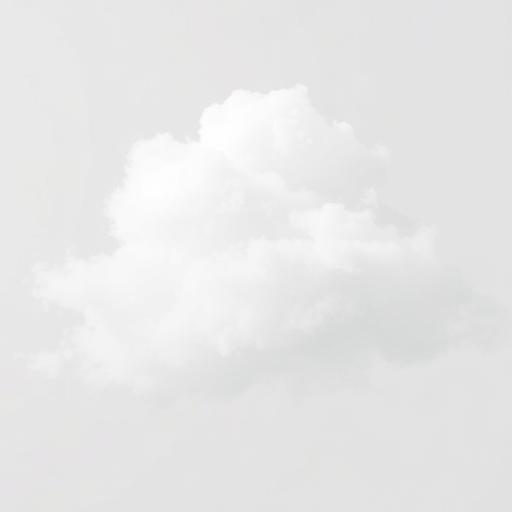
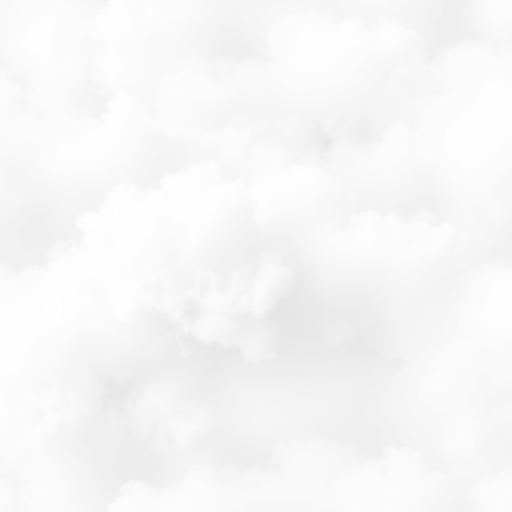
Implement shader-based fog
Replaced white fog circles with a shader-based fog implementation. This includes a single shader plane with animated, procedural noise for a more realistic and performant fog effect. The changes introduce new files for mask texture generation, shader logic, and a React-Three-Fiber hook for integration.

diff --git a/src/systems/fog/FogPlane.ts b/src/systems/fog/FogPlane.ts
@@ -1,0 +1,187 @@
+// src/systems/fog/FogPlane.ts
+import * as THREE from 'three';
+import { buildFogMaskTexture, updateFogMaskTexture } from './FogMaskTexture';
+import { useFogStore } from '@/stores/fogStore';
+
+// Импортируем шейдеры как строки
+const vertexShader = `
+precision highp float;
+attribute vec3 position;
+attribute vec2 uv;
+uniform mat4 modelViewMatrix;
+uniform mat4 projectionMatrix;
+
+varying vec2 vUv;
+
+void main() {
+  vUv = uv;
+  gl_Position = projectionMatrix * modelViewMatrix * vec4(position, 1.0);
+}
+`;
+
+const fragmentShader = `
+precision highp float;
+
+varying vec2 vUv;
+
+uniform sampler2D uCloudTex;   // облачная текстура (RGBA)
+uniform sampler2D uMaskTex;    // R8: 0=туман, 1=открыто (но в буфере 0/1)
+uniform vec2      uMapPx;      // размер маски в пикселях (w,h)
+uniform vec2      uTilePx;     // размер тайла в мировых пикселях по UV (для тайлинга облаков)
+uniform float     uTime;       // время для анимации
+uniform float     uOpacity;    // макс плотность тумана (0..1)
+
+//
+// лёгкий "шум" без текстур: 3-синусовой FBM
+//
+float n2(vec2 p){ return sin(p.x)*sin(p.y); }
+float fbm(vec2 p){
+  float f=0.0, a=0.5;
+  for(int i=0;i<4;i++){
+    f += a * n2(p);
+    p = p*2.13 + vec2(19.7, 7.3);
+    a *= 0.5;
+  }
+  return f*0.5 + 0.5; // 0..1
+}
+
+void main() {
+  // Маска (в texel space): берём несколько сэмплов для "размытия краёв"
+  // и вычисляем edgeFactor — чем ближе к границе, тем сильнее "протекание".
+  vec2 texel = 1.0 / uMapPx;
+  float m00 = texture2D(uMaskTex, vUv).r;         // 0..1 (0=tumor,1=open)
+  float ml = texture2D(uMaskTex, vUv + vec2(-texel.x, 0.0)).r;
+  float mr = texture2D(uMaskTex, vUv + vec2(+texel.x, 0.0)).r;
+  float mt = texture2D(uMaskTex, vUv + vec2(0.0, -texel.y)).r;
+  float mb = texture2D(uMaskTex, vUv + vec2(0.0, +texel.y)).r;
+
+  // Граница там, где сосед отличается
+  float edge = (abs(m00-ml)+abs(m00-mr)+abs(m00-mt)+abs(m00-mb)) * 0.5;
+  edge = clamp(edge, 0.0, 1.0);
+
+  // Базовый альфа тумана: 1 - mask
+  float fogAlpha = 1.0 - m00;
+
+  // Шум для "протекания": медленный сдвиг UV
+  vec2 flow = vUv * uTilePx * 0.075 + vec2(uTime * 0.03, -uTime * 0.02);
+  float noise = fbm(flow);
+
+  // Мягкие края: плавно ослабляем альфу у границы с учётом шума
+  float softEdge = smoothstep(0.1, 0.6, noise + (edge * 0.7));
+
+  // Финальная альфа: туман * мягкий край * глобальная плотность
+  float alpha = fogAlpha * softEdge * uOpacity;
+
+  // Сэмплим облачную текстуру (тайлим слегка плотнее сетки)
+  vec2 cloudUV = vUv * uTilePx * 0.9 + vec2(uTime * 0.01, 0.0);
+  vec4 cloud = texture2D(uCloudTex, cloudUV);
+
+  // Усиливаем альфу облака, но ограничиваем
+  alpha *= clamp(cloud.a * 1.4, 0.0, 1.0);
+
+  // Цвет облака слегка затемняем (можно подогнать под тему)
+  vec3 col = mix(vec3(0.8), vec3(0.93), cloud.r);
+
+  gl_FragColor = vec4(col, alpha);
+}
+`;
+
+export class FogPlane {
+  mesh: THREE.Mesh | null = null;
+  private material!: THREE.ShaderMaterial;
+  private cloud!: THREE.Texture;
+  private mask!: THREE.DataTexture;
+  private mapId: string;
+  private tileSize: number;
+
+  constructor(mapId = 'main-map', tileSize = 1) {
+    this.mapId = mapId;
+    this.tileSize = tileSize;
+  }
+
+  async init(scene: THREE.Scene) {
+    const { size } = useFogStore.getState();
+    // 1) Геометрия — плоскость размера карты по миру
+    const width = size.w * this.tileSize;
+    const height = size.h * this.tileSize;
+
+    const geo = new THREE.PlaneGeometry(width, height, 1, 1);
+    geo.rotateX(-Math.PI / 2); // на землю (XZ)
+
+    // 2) Текстуры
+    const cloudTex = await new Promise<THREE.Texture>((res, rej) =>
+      new THREE.TextureLoader().load('/assets/fog/cloud.png', t => {
+        t.wrapS = t.wrapT = THREE.RepeatWrapping;
+        t.anisotropy = 4;
+        t.needsUpdate = true;
+        res(t);
+      }, undefined, (error) => {
+        console.warn('Failed to load cloud texture, using default');
+        // Создаем простую белую текстуру как fallback
+        const canvas = document.createElement('canvas');
+        canvas.width = canvas.height = 256;
+        const ctx = canvas.getContext('2d')!;
+        ctx.fillStyle = 'white';
+        ctx.fillRect(0, 0, 256, 256);
+        const fallbackTex = new THREE.CanvasTexture(canvas);
+        fallbackTex.wrapS = fallbackTex.wrapT = THREE.RepeatWrapping;
+        res(fallbackTex);
+      })
+    );
+    
+    const maskTex = buildFogMaskTexture(this.mapId);
+    if (!maskTex) throw new Error('Fog mask not available — setMap() first');
+
+    this.cloud = cloudTex;
+    this.mask = maskTex;
+
+    // 3) Материал
+    this.material = new THREE.ShaderMaterial({
+      vertexShader,
+      fragmentShader,
+      uniforms: {
+        uCloudTex: { value: this.cloud },
+        uMaskTex:  { value: this.mask },
+        uMapPx:    { value: new THREE.Vector2(size.w, size.h) },
+        uTilePx:   { value: new THREE.Vector2(size.w, size.h) }, // тайлим от размеров сетки
+        uTime:     { value: 0.0 },
+        uOpacity:  { value: 0.65 } // глобальная плотность
+      },
+      transparent: true,
+      depthWrite: false,
+      blending: THREE.NormalBlending
+    });
+
+    this.mesh = new THREE.Mesh(geo, this.material);
+    this.mesh.name = 'fog-plane';
+    // Чуть выше пола, чтобы не z-fight'ило
+    this.mesh.position.set(0, 0.12, 0);
+    scene.add(this.mesh);
+  }
+
+  onStoreUpdate = () => {
+    if (this.mask) updateFogMaskTexture(this.mask, this.mapId);
+  };
+
+  /** подписаться на изменения карты тумана */
+  subscribe() {
+    return useFogStore.subscribe(() => this.onStoreUpdate());
+  }
+
+  /** обновлять время анимации */
+  tick(delta: number, elapsed: number) {
+    if (!this.material) return;
+    this.material.uniforms.uTime.value = elapsed;
+  }
+
+  dispose(scene: THREE.Scene) {
+    if (this.mesh) {
+      scene.remove(this.mesh);
+      (this.mesh.geometry as any)?.dispose?.();
+      (this.mesh.material as any)?.dispose?.();
+      this.mesh = null;
+    }
+    this.cloud?.dispose?.();
+    this.mask?.dispose?.();
+  }
+}

diff --git a/src/components/battle/ui/BattleMap3D.tsx b/src/components/battle/ui/BattleMap3D.tsx
@@ -11,7 +11,7 @@ import { useBattle3DControls } from "@/hooks/useBattle3DControls";
 import { useBattle3DControlStore } from "@/stores/battle3DControlStore";
 import { Button } from "@/components/ui/button";
 import { Upload, X } from "lucide-react";
-import { useFogLayer } from "@/components/battle/hooks/useFogLayer";
+import { useFogPlane } from "@/components/battle/hooks/useFogPlane";
 import { useFogStore } from "@/stores/fogStore";
 import { useFogPainting } from "@/hooks/useFogPainting";
 
@@ -22,7 +22,7 @@ interface BattleMap3DProps {
   brushSize?: number;
 }
 
-// Компонент для интеграции volumetric fog в 3D сцену
+// Компонент для интеграции объемного тумана в 3D сцену
 const VolumetricFog = ({ paintMode, brushSize }: { paintMode: 'reveal' | 'hide'; brushSize: number }) => {
   const { scene, gl } = useThree();
   const { handlePointerDown, handlePointerMove, handlePointerUp } = useFogPainting({
@@ -32,8 +32,8 @@ const VolumetricFog = ({ paintMode, brushSize }: { paintMode: 'reveal' | 'hide';
     tileSize: 1 // Каждая клетка сетки равна 1 единице (24/24=1)
   });
   
-  // Подключаем новую volumetric fog систему с правильным размером клетки
-  useFogLayer(scene, 'main-map', 1);
+  // Подключаем новую систему объемного тумана
+  useFogPlane('main-map', 1);
   
   // Инициализируем туман при первом запуске
   useEffect(() => {

diff --git a/src/systems/fog/FogMaskTexture.ts b/src/systems/fog/FogMaskTexture.ts
@@ -1,0 +1,39 @@
+// src/systems/fog/FogMaskTexture.ts
+import * as THREE from 'three';
+import { useFogStore } from '@/stores/fogStore';
+
+/**
+ * Строим текстуру-маску (R8): 0 = туман, 255 = открыто
+ * Шейдер сам превратит это в альфу.
+ */
+export function buildFogMaskTexture(mapId: string) {
+  const { maps, size } = useFogStore.getState();
+  const data = maps[mapId];
+  if (!data) return null;
+
+  const tex = new THREE.DataTexture(
+    data,            // Uint8Array длиной w*h (0/1)
+    size.w,
+    size.h,
+    THREE.RedFormat,
+    THREE.UnsignedByteType
+  );
+  // конвертим 0/1 → 0/255 сразу в GPU через цветопреобразование нельзя,
+  // поэтому просто используем LinearFilter и умножим в шейдере на 255.0.
+  tex.needsUpdate = true;
+  tex.flipY = true;
+  tex.magFilter = THREE.LinearFilter;
+  tex.minFilter = THREE.LinearFilter;
+  tex.wrapS = tex.wrapT = THREE.ClampToEdgeWrapping;
+  return tex;
+}
+
+/** обновляем существующую текстуру без пересоздания */
+export function updateFogMaskTexture(tex: THREE.DataTexture, mapId: string) {
+  const { maps } = useFogStore.getState();
+  const src = maps[mapId];
+  if (!src) return;
+  // копируем новые значения в буфер текстуры (ожидается Uint8Array)
+  (tex.image.data as Uint8Array).set(src);
+  tex.needsUpdate = true;
+}

diff --git a/src/components/battle/hooks/useFogPlane.ts b/src/components/battle/hooks/useFogPlane.ts
@@ -1,0 +1,35 @@
+// src/components/battle/hooks/useFogPlane.ts
+import { useEffect, useRef } from 'react';
+import { useFrame, useThree } from '@react-three/fiber';
+import { FogPlane } from '@/systems/fog/FogPlane';
+
+export function useFogPlane(mapId = 'main-map', tileSize = 1) {
+  const { scene } = useThree();
+  const inst = useRef<FogPlane | null>(null);
+  const unsub = useRef<(() => void) | undefined>();
+
+  useEffect(() => {
+    const fp = new FogPlane(mapId, tileSize);
+    inst.current = fp;
+    
+    (async () => { 
+      try {
+        await fp.init(scene); 
+        unsub.current = fp.subscribe();
+        console.log('Fog plane initialized successfully');
+      } catch (error) {
+        console.error('Failed to initialize fog plane:', error);
+      }
+    })();
+
+    return () => {
+      unsub.current?.();
+      fp.dispose(scene);
+      inst.current = null;
+    };
+  }, [scene, mapId, tileSize]);
+
+  useFrame((state, delta) => {
+    inst.current?.tick(delta, state.clock.elapsedTime);
+  });
+}
